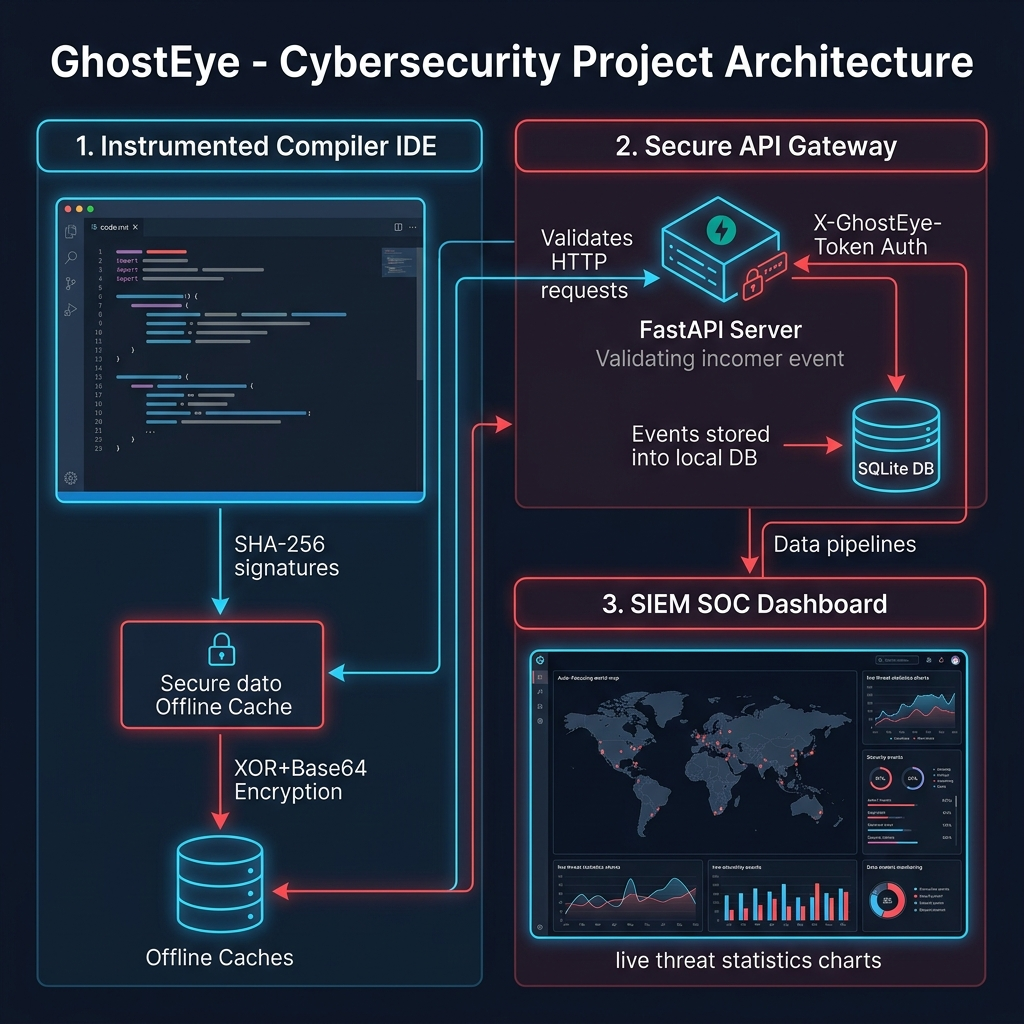
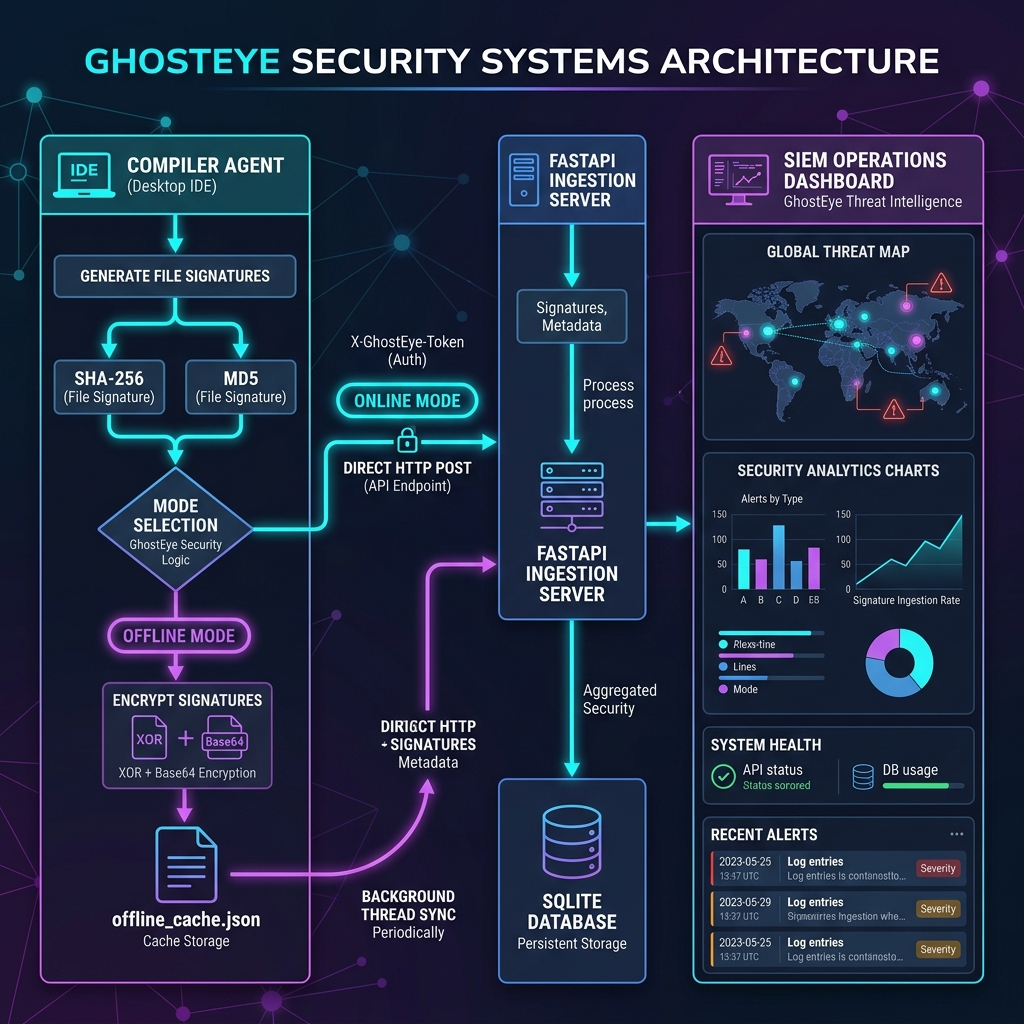
Enhance security architecture: implement dual signatures (SHA-256 and MD5), refine online/offline flows, and update architecture diagrams

diff --git a/dashboard.js b/dashboard.js
@@ -193,7 +193,7 @@ document.addEventListener("DOMContentLoaded", () => {
                                 <td>
                                     <div class="file-info">
                                          <span class="file-name" title="${log.filename}">${truncateText(log.filename, 22)}</span>
-                                         <span class="file-size">${sizeKb} | SHA-256: ${log.filehash.substring(0, 8)}...</span>
+                                         <span class="file-size">${sizeKb} | SHA-256: ${log.filehash_sha256.substring(0, 8)}... | MD5: ${log.filehash_md5.substring(0, 8)}...</span>
                                      </div>
                                 </td>
                                 <td>
@@ -348,7 +348,8 @@ document.addEventListener("DOMContentLoaded", () => {
         const randomUser = mockUsers[Math.floor(Math.random() * mockUsers.length)];
         const randomHost = mockHosts[Math.floor(Math.random() * mockHosts.length)];
         const randomOS = mockOS[Math.floor(Math.random() * mockOS.length)];
-        const randomHash = Array.from({length: 32}, () => Math.floor(Math.random()*16).toString(16)).join('');
+        const randomSHA256 = Array.from({length: 64}, () => Math.floor(Math.random()*16).toString(16)).join('');
+        const randomMD5 = Array.from({length: 32}, () => Math.floor(Math.random()*16).toString(16)).join('');
         const randomSize = Math.floor(Math.random() * 50000) + 1024;
         
         let ip = "127.0.0.1";
@@ -360,7 +361,8 @@ document.addEventListener("DOMContentLoaded", () => {
             timestamp: new Date().toISOString(),
             filename: filename,
             filesize: randomSize,
-            filehash: randomHash,
+            filehash_sha256: randomSHA256,
+            filehash_md5: randomMD5,
             compiler_flags: "-O2 -Wall -static",
             ip: ip,
             hostname: randomHost,
@@ -424,7 +426,8 @@ document.addEventListener("DOMContentLoaded", () => {
             const randomUser = mockUsers[Math.floor(Math.random() * mockUsers.length)];
             const randomHost = mockHosts[Math.floor(Math.random() * mockHosts.length)];
             const randomOS = mockOS[Math.floor(Math.random() * mockOS.length)];
-            const randomHash = Array.from({length: 32}, () => Math.floor(Math.random()*16).toString(16)).join('');
+            const randomSHA256 = Array.from({length: 64}, () => Math.floor(Math.random()*16).toString(16)).join('');
+            const randomMD5 = Array.from({length: 32}, () => Math.floor(Math.random()*16).toString(16)).join('');
             const randomSize = Math.floor(Math.random() * 85000) + 2048;
 
             const timeOffsetMs = (total - count) * 60 * 1000;
@@ -434,7 +437,8 @@ document.addEventListener("DOMContentLoaded", () => {
                 timestamp: timestamp,
                 filename: filename,
                 filesize: randomSize,
-                filehash: randomHash,
+                filehash_sha256: randomSHA256,
+                filehash_md5: randomMD5,
                 compiler_flags: "-O3 -s",
                 ip: ip,
                 hostname: randomHost,

diff --git a/server.py b/server.py
@@ -10,7 +10,7 @@ from pydantic import BaseModel
 from typing import List, Optional
 
 # Initialize FastAPI app
-app = FastAPI(title="GhostEye SIEM Telemetry Ingestion API", version="2.0.0")
+app = FastAPI(title="GhostEye SIEM Telemetry Ingestion API", version="2.1.0")
 
 # Enable CORS for development
 app.add_middleware(
@@ -29,7 +29,8 @@ class TelemetryPayload(BaseModel):
     timestamp: str  # ISO string or formatted local time of event
     filename: str
     filesize: int
-    filehash: str  # Stores SHA-256 hash (Security Upgrade)
+    filehash_sha256: str  # Security Upgrade: SHA-256 Signature
+    filehash_md5: str     # Security Upgrade: MD5 Signature
     compiler_flags: str
     ip: str
     hostname: str
@@ -42,18 +43,24 @@ class TelemetryPayload(BaseModel):
     mocked_country: Optional[str] = None
     mocked_ip: Optional[str] = None
 
-# Initialize SQLite database
+# Initialize SQLite database (supporting both MD5 and SHA-256)
 def init_db():
     conn = sqlite3.connect(DB_PATH)
     cursor = conn.cursor()
+    
+    # Drops the table if structure needs update (safe for PoC/FYP reset)
+    # We alter table or drop it to ensure schema matches the new columns
+    cursor.execute("DROP TABLE IF EXISTS telemetry_logs")
+    
     cursor.execute("""
-        CREATE TABLE IF NOT EXISTS telemetry_logs (
+        CREATE TABLE telemetry_logs (
             id INTEGER PRIMARY KEY AUTOINCREMENT,
             timestamp TEXT,
             received_at TEXT,
             filename TEXT,
             filesize INTEGER,
-            filehash TEXT,
+            filehash_sha256 TEXT,
+            filehash_md5 TEXT,
             compiler_flags TEXT,
             ip TEXT,
             country TEXT,
@@ -75,10 +82,6 @@ init_db()
 
 # GeoIP Resolution Helper
 def resolve_geoip(ip_addr: str, mocked_country: Optional[str] = None) -> dict:
-    """
-    Resolve IP address to country, city, lat, lon.
-    If mocked_country is provided (God Mode), use that instead.
-    """
     result = {
         "country": "Unknown",
         "city": "Unknown",
@@ -86,7 +89,6 @@ def resolve_geoip(ip_addr: str, mocked_country: Optional[str] = None) -> dict:
         "longitude": 0.0
     }
     
-    # 1. Check if God Mode country is provided
     if mocked_country and mocked_country.lower() != "auto":
         result["country"] = mocked_country
         coordinates = {
@@ -103,7 +105,6 @@ def resolve_geoip(ip_addr: str, mocked_country: Optional[str] = None) -> dict:
             result.update(coordinates[mocked_country])
         return result
 
-    # 2. Skip local/private IP addresses
     private_prefixes = ["127.", "192.168.", "10.", "172.16.", "172.17.", "172.18.", "172.19.", "172.20.", "172.21.", "172.22.", "172.23.", "172.24.", "172.25.", "172.26.", "172.27.", "172.28.", "172.29.", "172.30.", "172.31."]
     if any(ip_addr.startswith(prefix) for prefix in private_prefixes) or ip_addr == "localhost":
         try:
@@ -125,7 +126,6 @@ def resolve_geoip(ip_addr: str, mocked_country: Optional[str] = None) -> dict:
             "longitude": 101.6869
         }
 
-    # 3. Resolve using external GeoIP API
     try:
         r = requests.get(f"http://ip-api.com/json/{ip_addr}", timeout=3)
         if r.status_code == 200:
@@ -150,31 +150,27 @@ async def ingest_telemetry(request: Request, payload: TelemetryPayload):
     if token != API_TOKEN:
         raise HTTPException(status_code=401, detail="Unauthorized: Invalid or missing X-GhostEye-Token header")
 
-    # Determine the IP to use (God Mode override or payload IP)
     ip_to_resolve = payload.mocked_ip if (payload.mocked_ip and payload.mocked_ip.lower() != "auto") else payload.ip
     
-    # Resolve country
     geo = resolve_geoip(ip_to_resolve, payload.mocked_country)
-    
-    # Current server reception time
     received_at = datetime.datetime.now().isoformat()
     
-    # Save to SQLite
     try:
         conn = sqlite3.connect(DB_PATH)
         cursor = conn.cursor()
         cursor.execute("""
             INSERT INTO telemetry_logs (
-                timestamp, received_at, filename, filesize, filehash, compiler_flags, 
+                timestamp, received_at, filename, filesize, filehash_sha256, filehash_md5, compiler_flags, 
                 ip, country, city, latitude, longitude, hostname, username, os_info, 
                 is_offline_log, status, threat_level
-            ) VALUES (?, ?, ?, ?, ?, ?, ?, ?, ?, ?, ?, ?, ?, ?, ?, ?, ?)
+            ) VALUES (?, ?, ?, ?, ?, ?, ?, ?, ?, ?, ?, ?, ?, ?, ?, ?, ?, ?)
         """, (
             payload.timestamp,
             received_at,
             payload.filename,
             payload.filesize,
-            payload.filehash,
+            payload.filehash_sha256,
+            payload.filehash_md5,
             payload.compiler_flags,
             ip_to_resolve,
             geo["country"],
@@ -224,7 +220,6 @@ async def get_stats():
         cursor.execute("SELECT threat_level, COUNT(*) FROM telemetry_logs GROUP BY threat_level")
         threat_counts = dict(cursor.fetchall())
         
-        # Ensure standard keys exist
         for level in ["INFO", "LOW", "MEDIUM", "HIGH", "CRITICAL"]:
             if level not in threat_counts:
                 threat_counts[level] = 0

diff --git a/compiler_agent.py b/compiler_agent.py
@@ -423,9 +423,10 @@ class CompilerAgentApp(tk.Tk):
         time.sleep(0.6)
         self.write_console("[BUILD] Linking object modules and code optimization...", "BUILD")
         
-        # Security Upgrade: Compile SHA-256 Hashing instead of MD5
+        # Generate Dual Signatures: SHA-256 and MD5 Hashes
         code_bytes = code.encode("utf-8")
         sha256_hash = hashlib.sha256(code_bytes).hexdigest()
+        md5_hash = hashlib.md5(code_bytes).hexdigest()
         file_size = len(code_bytes)
         
         time.sleep(0.5)
@@ -450,7 +451,8 @@ class CompilerAgentApp(tk.Tk):
             "timestamp": datetime.datetime.now().isoformat(),
             "filename": filename,
             "filesize": file_size,
-            "filehash": sha256_hash,
+            "filehash_sha256": sha256_hash,
+            "filehash_md5": md5_hash,
             "compiler_flags": flags,
             "ip": ip,
             "hostname": hostname,

diff --git a/README.md b/README.md
@@ -9,17 +9,96 @@ Whenever a developer compiles code, the GhostEye Compiler Agent intercepts the e
 
 ## 🏗 System Architecture & Workflow
 
-Here is the high-level architecture diagram showing the flow of compiler telemetry from the desktop client, through the FastAPI gateway, to the dark-mode SOC SIEM dashboard:
+GhostEye operates with a decoupled client-server architecture containing dual signature compilation, resilient caching for offline states, token authorization, and real-time visualization.
 
-![GhostEye System Architecture](ghosteye_architecture.png)
+### 📊 System Architecture Diagram
+
+```mermaid
+flowchart TD
+    subgraph Client ["GHOSTEYE COMPILER AGENT (Client-Side Desktop IDE)"]
+        IDE["C++ Source Code Editor"]
+        Compiler["Instrumented Compiler Pipeline"]
+        HashGen["Signature Generator<br>(SHA-256 & MD5)"]
+        NetState{"Network State Toggle?"}
+        
+        %% Online Path
+        OnlinePath["<b>ONLINE PATHWAY</b><br>Token Auth (X-GhostEye-Token)"]
+        HTTPPost["HTTP POST /api/telemetry"]
+        
+        %% Offline Path
+        OfflinePath["<b>OFFLINE PATHWAY</b><br>Local Encrypted Cache"]
+        EncryptXOR["XOR + Base64 Cipher Engine"]
+        CacheFile[("offline_cache.json<br>(Encrypted Logs)")]
+        SyncThread["Background Sync Thread<br>(Auto-Sync on connection restore)"]
+
+        IDE -->|Compile & Telemetry| Compiler
+        Compiler -->|Generate Dual Hashes| HashGen
+        HashGen --> NetState
+        
+        %% Online Routing
+        NetState -->|Online Mode| OnlinePath
+        OnlinePath --> HTTPPost
+        
+        %% Offline Routing
+        NetState -->|Offline Mode| OfflinePath
+        OfflinePath --> EncryptXOR
+        EncryptXOR --> CacheFile
+        SyncThread -.->|Pings API & Decrypts Cache| CacheFile
+        SyncThread -->|Transmits cached logs| HTTPPost
+    end
+
+    subgraph Server ["GHOSTEYE TELEMETRY BACKEND (Python API Gateway)"]
+        API["FastAPI Routing Engine"]
+        TokenAuth{"X-GhostEye-Token Valid?"}
+        GeoIP["GeoIP Resolver<br>(ip-api.com & Local Mock Fallback)"]
+        DB[(SQLite Database<br>telemetry.db)]
+
+        HTTPPost --> API
+        API --> TokenAuth
+        TokenAuth -->|Valid| GeoIP
+        TokenAuth -->|Invalid| HTTP401["HTTP 401 Unauthorized"]
+        GeoIP -->|Ingest Payload with MD5 + SHA-256| DB
+    end
+
+    subgraph SIEM ["GHOSTEYE SOC Dashboard (Web Frontend UI)"]
+        Dashboard["SIEM Analytics Dashboard<br>(Neon Dark Mode / Glassmorphism)"]
+        LeafletMap["Leaflet.js Map<br>(Auto-Fly & Pop-up coordinate locator)"]
+        Charts["Chart.js Indicators<br>(Threat Classifications & Compile Trends)"]
+        Poller["AJAX 2-second Poller"]
+
+        Poller -->|Fetch Logs| API
+        API -->|JSON Telemetry Logs| Poller
+        Poller -->|Update Map Coordinates| LeafletMap
+        Poller -->|Update Visual Metrics| Charts
+        Dashboard --> Poller
+    end
+```
+
+---
+
+### 🔐 Security Architecture Details
+
+#### 1. Dual Hashes Signatures (MD5 & SHA-256)
+During the instrumented compilation process, the source code is passed to two independent hashing algorithms. Both signatures are generated and appended to the telemetry payload:
+* **MD5 Hashing:** Captured via `hashlib.md5()` to maintain legacy compatibility and quick hash lookups in traditional databases.
+* **SHA-256 Hashing:** Captured via `hashlib.sha256()` to offer cryptographic integrity and prevent signature collision attacks.
+
+#### 2. Network Pathways: Online vs. Offline Mode
+
+| Feature / Pathway | 🌐 Online Mode | 🔌 Offline Mode |
+| :--- | :--- | :--- |
+| **Transmission Destination** | Direct transmission to the FastAPI Backend Server. | Local caching in the `offline_cache.json` file. |
+| **Authentication** | Validated via `X-GhostEye-Token` in the HTTP header. | Pre-validated signature; stored securely until connection is restored. |
+| **Data Encryption** | Sent over HTTP (or HTTPS in production). | Cryptographically secured using an **XOR + Base64** cipher engine locally. |
+| **Synchronisation** | Real-time ingest. | A background thread pings the API server and auto-flushes/syncs logs when the network becomes online. |
 
 ### Data Stream Flow:
-1. **Developer Actions:** Developer writes code in the custom C++/Python IDE and clicks **Compile**.
-2. **Telemetry Extraction:** The Compiler Agent immediately captures local timestamps, user account details, system hostname, OS specifications, and scans code for suspicious Win32 API calls.
+1. **Developer Actions:** Developer writes code in the custom C++ IDE and clicks **Compile**.
+2. **Telemetry Extraction:** The Compiler Agent immediately captures local timestamps, user account details, system hostname, OS specifications, and generates dual signatures (MD5 & SHA-256).
 3. **Network Dispatching:** 
    * **If Online:** Dispatches telemetry via a secure HTTP POST JSON payload to the API server.
-   * **If Offline:** Caches payloads locally inside `offline_cache.json` with historical timestamps preserved. Once connection is restored, a sync thread flushes the queue.
-4. **FastAPI Ingestion:** The backend processes client geolocations via GeoIP APIs (with simulated offline fallbacks) and commits records to a local SQLite database.
+   * **If Offline:** Encrypts telemetry via XOR + Base64 and writes it to `offline_cache.json` with historical timestamps preserved. Once connection is restored, a background sync thread automatically flushes the queue.
+4. **FastAPI Ingestion:** The backend verifies the API token, resolves client geolocations via GeoIP APIs (with simulated offline fallbacks), and commits records to a local SQLite database.
 5. **Real-time Monitoring:** The SOC Dashboard pulls logs and updates analytics widgets, panning the Leaflet.js world map to the compile source coordinates and popping details in real-time.
 
 ---
